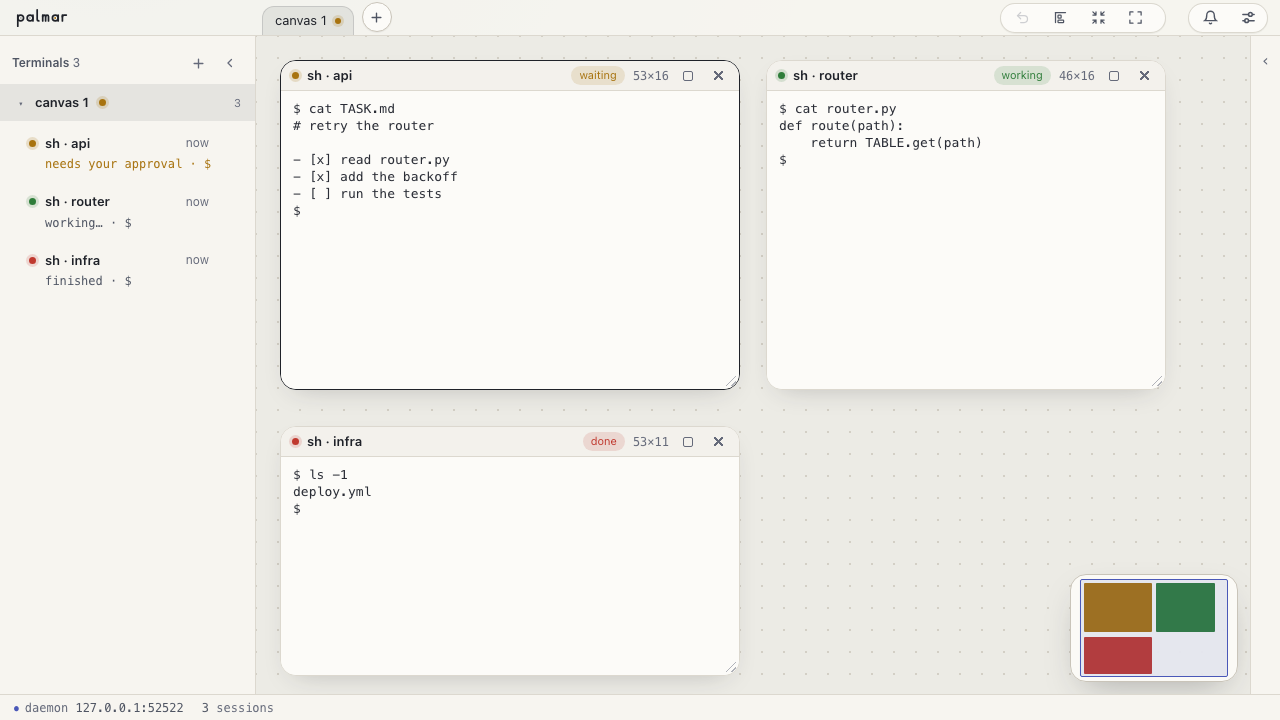
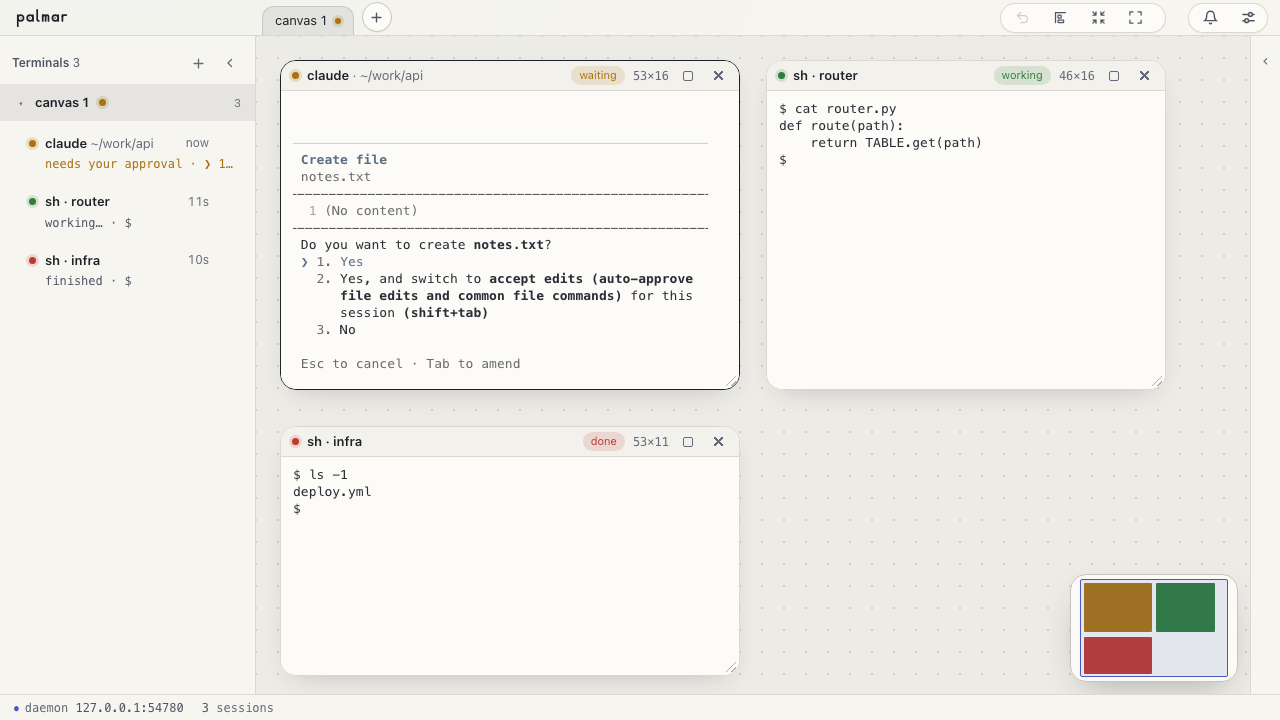
README recording: a real claude in the first pane, asking permission
The first pane runs the agent itself now (user, 2026-11-02): it is
asked to create a file, which it has to ask permission for, and the
amber light comes down the hook palmar attached rather than from the
script. It starts with the real HOME inside the pane (its login lives
there), the hook settings named outright because the shim finds them
under $HOME, and the trust dialog answered once (its default is "No,
exit"). Nothing personal: the daemon's HOME is scratch, the prompt is
"$ ", the folder is /tmp/…, and check_clean now also refuses an
e-mail address on screen. The agent is stopped at the end and killed
if it did not go.

Claude-Session: https://claude.ai/code/session_01MWPvt5ov5AYWPhD8zzBDkS

diff --git a/dev/record.py b/dev/record.py
@@ -18,15 +18,21 @@ does, and keeps the frames. Run it again after the UI changes and you get the sa
 the only safe way to start a daemon here: the real one would rotate the token and log you out of the
 session you are in. The scratch tree it browses is a temporary directory too.
 
-What it cannot do: run a real `claude` in a pane. That needs a clean environment and a person's
-judgement about what the agent is asked to do; the panes here run a shell and the status lights come
-from the hook endpoint, which is the same path a real agent's hooks take.
+**One pane runs a real `claude`** (2026-11-02, user: "클로드 실행하고 대기하는 모습도"). It is
+asked to run `ls` with Bash, which it has to ask permission for, and that permission request is
+what lights the pane amber — through the hook palmar attaches, the real path. The agent's own
+config is used (CLAUDE_CONFIG_DIR, and ~/.claude.json copied into the scratch HOME so there is no
+onboarding), the pane's environment is the clean one every pane gets, and `check_clean` reads the
+screen for the username, the hostname, the home path and any e-mail address before a frame is taken.
+The other two panes run a shell, and their lights come from the hook endpoint directly. The agent is
+stopped at the end, and `pgrep` says whether it really is.
 """
 from __future__ import annotations
 
 import argparse
 import json
 import os
+import re
 import shutil
 import socket
 import subprocess
@@ -179,6 +185,10 @@ def check_clean(br: Browser) -> None:
                         ("home's last part", os.path.basename(home.rstrip("/")))):
         if value and len(value) > 2 and value in txt:
             bad.append("%s (%r)" % (name, value))
+    # An address of any kind. The agent's start-up screen is the one place one could appear
+    # (2026-11-02), and nothing on this canvas has a reason to show one.
+    if re.search(r"[A-Za-z0-9._%+-]+@[A-Za-z0-9.-]+\.[A-Za-z]{2,}", txt):
+        bad.append("an e-mail address")
     if bad:
         raise SystemExit("record: this would have filmed " + ", ".join(bad) +
                          " — fix that before recording")
@@ -211,8 +221,14 @@ def run(out_dir: str, keep: bool) -> int:
     # prompt is `%n@%m %1~ %#` — the username and the machine's name, on every line of every pane. So
     # the panes here run `sh` with a prompt that says only where it is. `check_clean` below refuses to
     # go on if anything identifying reaches the screen anyway.
+    # **The agent runs with the real HOME; the daemon does not.** The daemon's HOME is the scratch
+    # one (its ~/.palmar must never be the real one). But `claude` keeps its login in the real
+    # home — with a scratch HOME it opened on "Select login method" (measured 2026-11-02) — so the
+    # pane is handed the real path in a variable and the command typed is `HOME=$REAL_HOME claude`:
+    # the path never appears on screen, and the agent's screen is cleared by its own TUI anyway.
     d = Daemon(shell="/bin/sh",
-               env={"PALMAR_UPDATE_CHECK": "0", "PS1": "$ ", "PROMPT": "$ "}).start()
+               env={"PALMAR_UPDATE_CHECK": "0", "PS1": "$ ", "PROMPT": "$ ",
+                    "REAL_HOME": os.path.expanduser("~")}).start()
     # **Inside the daemon's HOME.** A pane may only open somewhere under a root, and the roots are
     # this HOME — which is the temporary one tests/helpers.py made, not the real ~.
     proj = os.path.join(d.home, "work")
@@ -234,7 +250,9 @@ def run(out_dir: str, keep: bool) -> int:
         # **These run a shell.** Naming one of them after an agent would be dressing a shell up as
         # something it is not — and this picture goes on the README. The lights below are real: they
         # come down the hook endpoint, which is the path a real agent's hooks take.
-        a = d.open_pane(cwd=os.path.join(proj, "api"), name="sh · api")
+        # The first pane has no name: it runs the agent, and the row and the title read what is in
+        # front — "claude ~/work/api" — the way they do for anybody.
+        a = d.open_pane(cwd=os.path.join(proj, "api"))
         b = d.open_pane(cwd=os.path.join(proj, "api"), name="sh · router")
         c = d.open_pane(cwd=os.path.join(proj, "infra"), name="sh · infra")
         time.sleep(2.0)
@@ -242,7 +260,6 @@ def run(out_dir: str, keep: bool) -> int:
         for sid, line in (
                 # Short lines that succeed. A long one wraps in the pane and the echoed command
                 # becomes the noisiest thing on screen; one that errors is one nobody meant to show.
-                (a["id"], "cat TASK.md"),
                 (b["id"], "cat router.py"),
                 (c["id"], "ls -1")):
             pty = WS(d, "/pty/%s?token=%s&cols=90&rows=24" % (sid, d.token))
@@ -276,6 +293,42 @@ def run(out_dir: str, keep: bool) -> int:
         time.sleep(1.2)
         check_clean(br)
 
+        # **The real thing — started before a frame is taken.** `claude` in the first pane, up to its
+        # prompt. The request it must ask permission for comes in ① below, on camera; the amber light
+        # that follows comes down the hook palmar attached, not from this script.
+        agent = WS(d, "/pty/%s?token=%s&cols=90&rows=24" % (a["id"], d.token))
+        agent.recv_json()
+        screen = lambda: br.ev("""(()=>{const t=window.palmar.tiles.get(%s); if(!t) return '';
+          const b=t.term.buffer.active, o=[]; for (let i=0;i<b.length;i++){const l=b.getLine(i); if(l) o.push(l.translateToString(true));}
+          return o.join('\\n');})()""" % json.dumps(a["id"]))
+        # `--permission-mode default`, whatever this account's own default is: the point of the beat is
+        # the permission request, and an account set to auto mode would run the command without one
+        # (measured 2026-11-02: "auto mode on", straight to done).
+        # The shim finds its hook settings under $HOME, and with HOME swapped it finds none (measured:
+        # no hook arrived, the light read "done" under a permission prompt). So the file is named
+        # outright — $HOME and $PALMAR_PANE expand in the pane's shell, and nothing personal is typed.
+        agent.send(b'f="$HOME/.palmar/run/$PALMAR_PANE.json"; HOME=$REAL_HOME claude --settings "$f" --permission-mode default',
+                   opcode=0x2)
+        time.sleep(0.3); agent.send(b"\r", opcode=0x2)
+        deadline = time.time() + 40
+        trusted = False
+        while time.time() < deadline:
+            time.sleep(1.0)
+            scr = screen()
+            if "trust" in scr.lower() and not trusted:
+                # A folder it has not seen: the dialog's default is "No, exit" (measured 2026-11-02),
+                # so Down first, then Enter — **once**. Answering again while the dialog was still
+                # being redrawn wrapped the choice back to "No, exit" and the agent was gone (measured).
+                trusted = True
+                agent.send(b"\x1b[B", opcode=0x2); time.sleep(0.3)
+                agent.send(b"\r", opcode=0x2); time.sleep(3.0); continue
+            if "\u203a" in scr or "> " in scr or "Try " in scr:   # its prompt is up
+                break
+        time.sleep(1.5)
+        check_clean(br)
+        # A request it cannot satisfy with a read-only tool: listing a folder it did without asking
+        # (measured — Glob needs no permission). Creating a file does need one, with Bash or Write.
+
         take = Take(br, frames)
 
         # ① the lights. **All three at once**, which is the whole point of them — one working, one
@@ -286,8 +339,24 @@ def run(out_dir: str, keep: bool) -> int:
         take.hold(1.1)
         d.raw("POST", "/hook/claude?pane=%s" % c["id"], {"hook_event_name": "Stop"})
         take.hold(1.1)
-        d.raw("POST", "/hook/claude?pane=%s" % a["id"], {"hook_event_name": "PermissionRequest"})
-        take.hold(1.8)
+        # The agent is asked for something it needs permission for. The typing is on camera; the
+        # thinking is not (a cut, rather than seconds of a still screen); the asking is.
+        agent.send(b"Create an empty file named notes.txt in this folder.", opcode=0x2)
+        time.sleep(0.4)
+        agent.send(b"\r", opcode=0x2)
+        take.hold(0.8)
+        deadline = time.time() + 90
+        while time.time() < deadline:
+            time.sleep(1.0)
+            rows = d.get("/api/sessions")
+            rows = rows["sessions"] if isinstance(rows, dict) else rows
+            if any(r["id"] == a["id"] and r["status"] == "waiting" for r in rows):
+                break
+        else:
+            print("record: the agent never asked — screen was:\n" + screen()[-800:], file=sys.stderr)
+        time.sleep(0.8)
+        check_clean(br)
+        take.hold(2.2)
 
         # **Two stills for the README** (2026-11-02), taken here where the picture is at its
         # clearest: three windows, all three lights, nothing mid-drag. Dark is what the recording
@@ -363,6 +432,14 @@ def run(out_dir: str, keep: bool) -> int:
         br.ev("(()=>{document.body.click(); return 1;})()")
         take.hold(0.6)
 
+        # Stop the agent the way a person does — Ctrl-C twice — then leave its shell. A pane's shell
+        # gets SIGHUP on stop; an agent in alt-screen did not always go with it (measured).
+        agent.send(b"\x1b", opcode=0x2); time.sleep(0.6)        # Esc: out of the permission dialog first
+        agent.send(b"\x03", opcode=0x2); time.sleep(0.6)
+        agent.send(b"\x03", opcode=0x2); time.sleep(2.5)
+        agent.send(b"exit\r", opcode=0x2); time.sleep(0.5)
+        agent.close()
+
         errs = br.errors()
         if errs:
             print("record: the page complained — " + "; ".join(errs[:3]), file=sys.stderr)
@@ -391,6 +468,12 @@ def run(out_dir: str, keep: bool) -> int:
     finally:
         br.stop()
         d.stop()
+        # The agent dies with its pane's shell (SIGHUP on stop). Say so, rather than assume it.
+        left = subprocess.run(["pgrep", "-f", "claude --settings " + d.home], capture_output=True, text=True).stdout.split()
+        if left:
+            for p in left:
+                subprocess.run(["kill", "-9", p], capture_output=True)
+            print("record: the agent was still running and was killed (pid %s)" % ", ".join(left), file=sys.stderr)
         if not keep:
             shutil.rmtree(work, ignore_errors=True)
 
